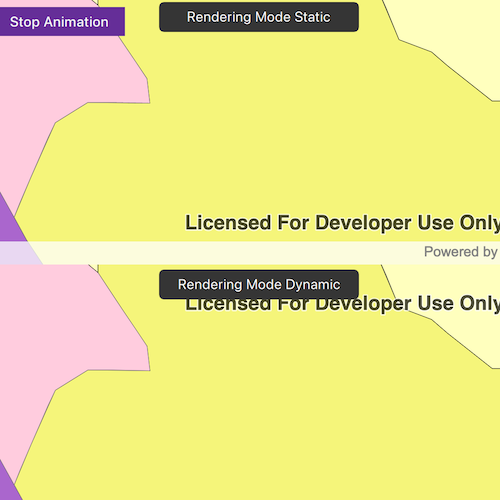
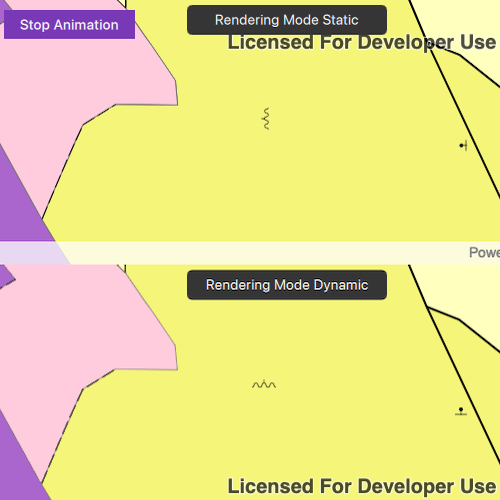
Fixed layer ordering for FeatureRenderingModeSamples.

diff --git a/CppSamples/Layers/FeatureLayerRenderingModeScene/FeatureLayerRenderingModeScene.cpp b/CppSamples/Layers/FeatureLayerRenderingModeScene/FeatureLayerRenderingModeScene.cpp
@@ -103,7 +103,7 @@ void FeatureLayerRenderingModeScene::componentComplete()
 
 void FeatureLayerRenderingModeScene::addFeatureLayers(Scene* scene)
 {
-  const QStringList layerIds = {"0", "8", "9"};
+  const QStringList layerIds = {"9", "8", "0"};
   for (const QString& layerId : layerIds)
   {
     QString featureServiceUrl = QString("%1/%2").arg(m_featureServiceUrl, layerId);

diff --git a/CppSamples/Layers/FeatureLayerRenderingModeMap/FeatureLayerRenderingModeMap.cpp b/CppSamples/Layers/FeatureLayerRenderingModeMap/FeatureLayerRenderingModeMap.cpp
@@ -97,7 +97,7 @@ void FeatureLayerRenderingModeMap::componentComplete()
 
 void FeatureLayerRenderingModeMap::addFeatureLayers(Map* map)
 {
-  const QStringList layerIds = {"0", "8", "9"};
+  const QStringList layerIds = {"9", "8", "0"};
   for (const QString& layerId : layerIds)
   {
     QString featureServiceUrl = QString("%1/%2").arg(m_featureServiceUrl, layerId);
